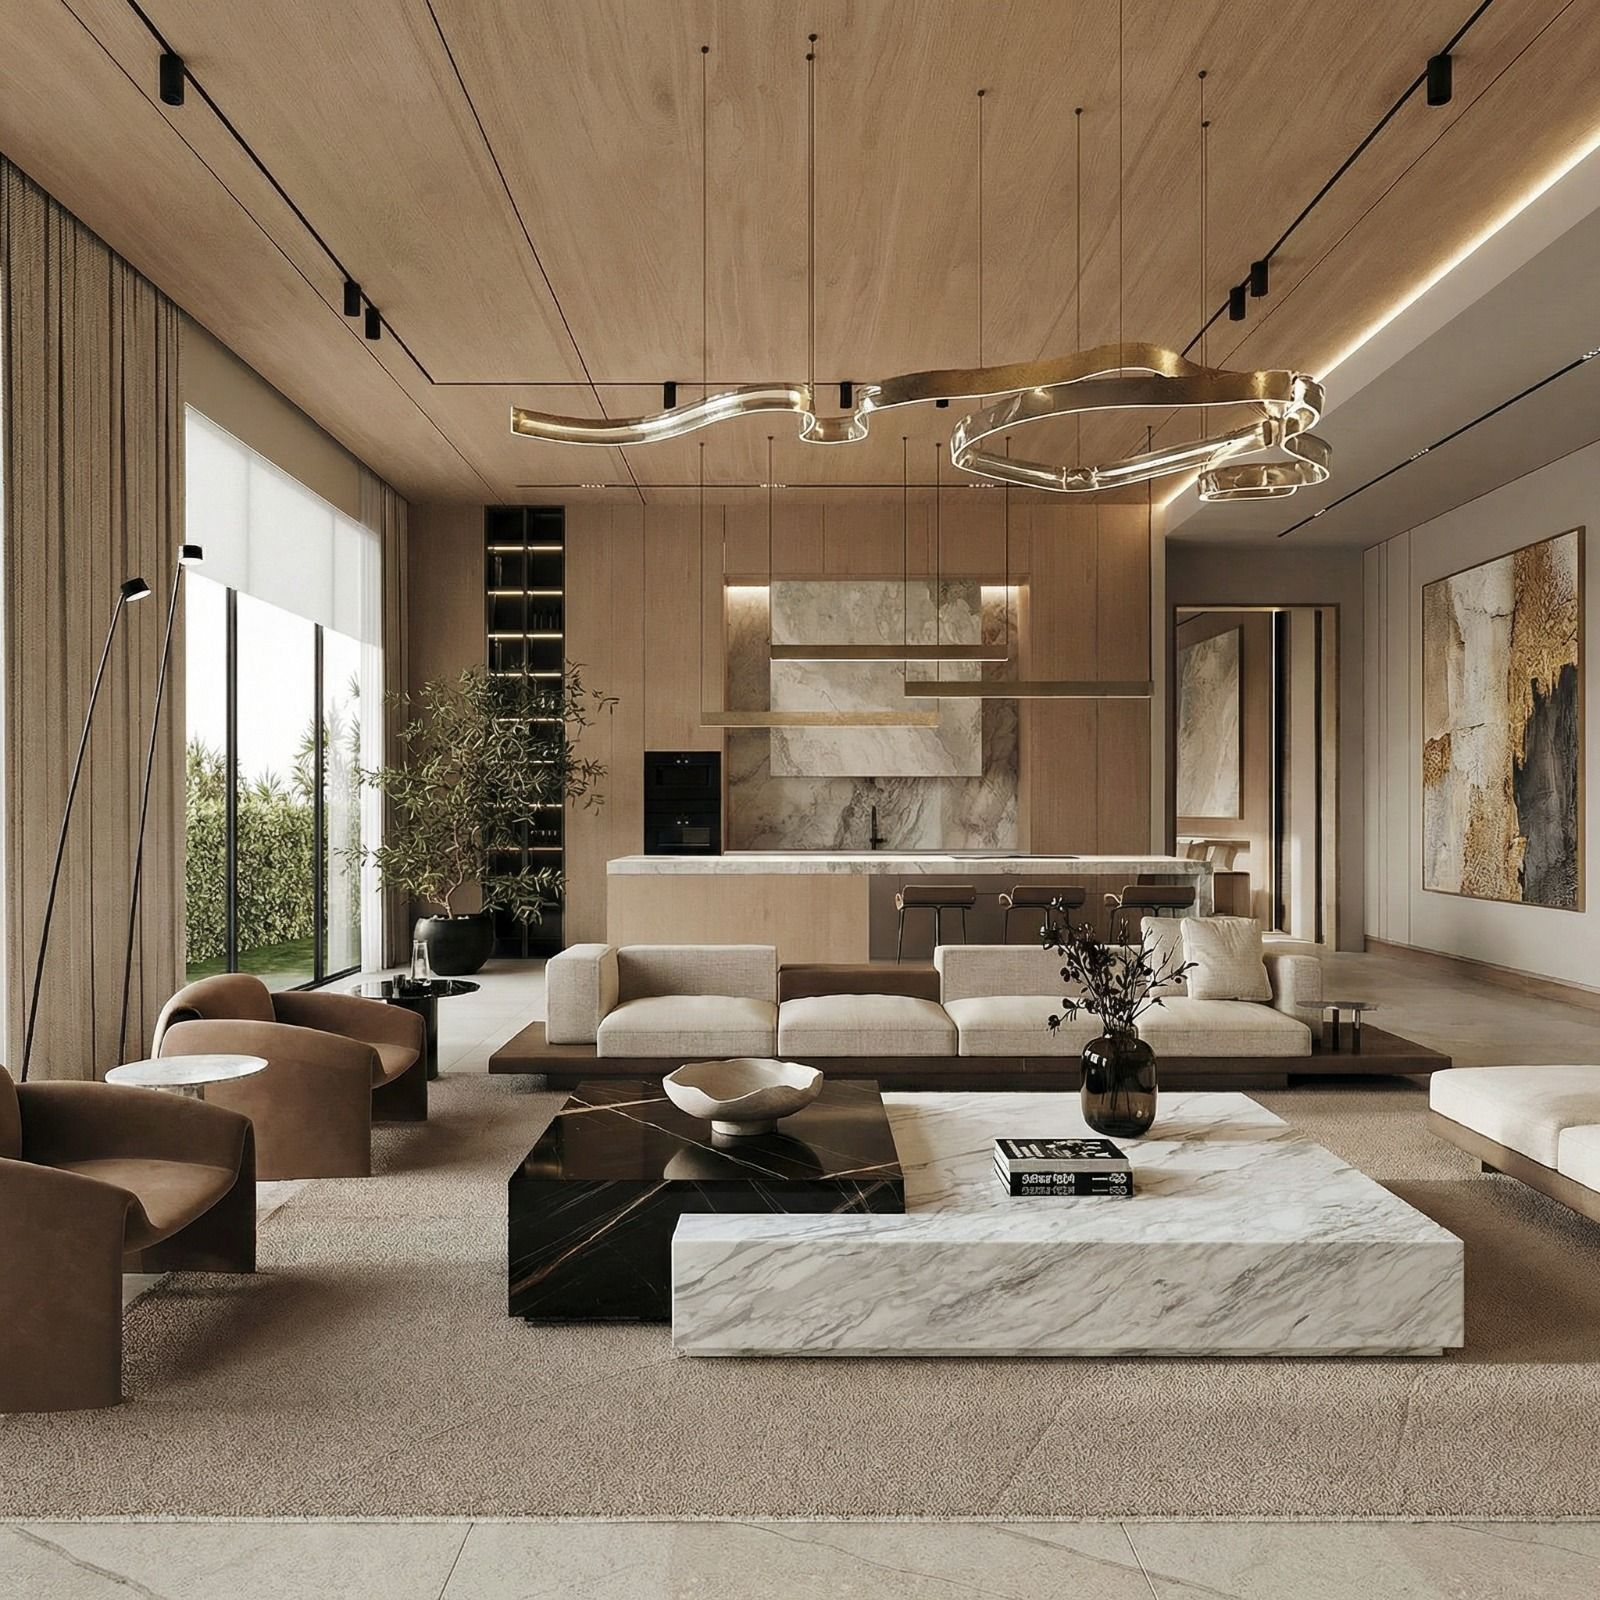
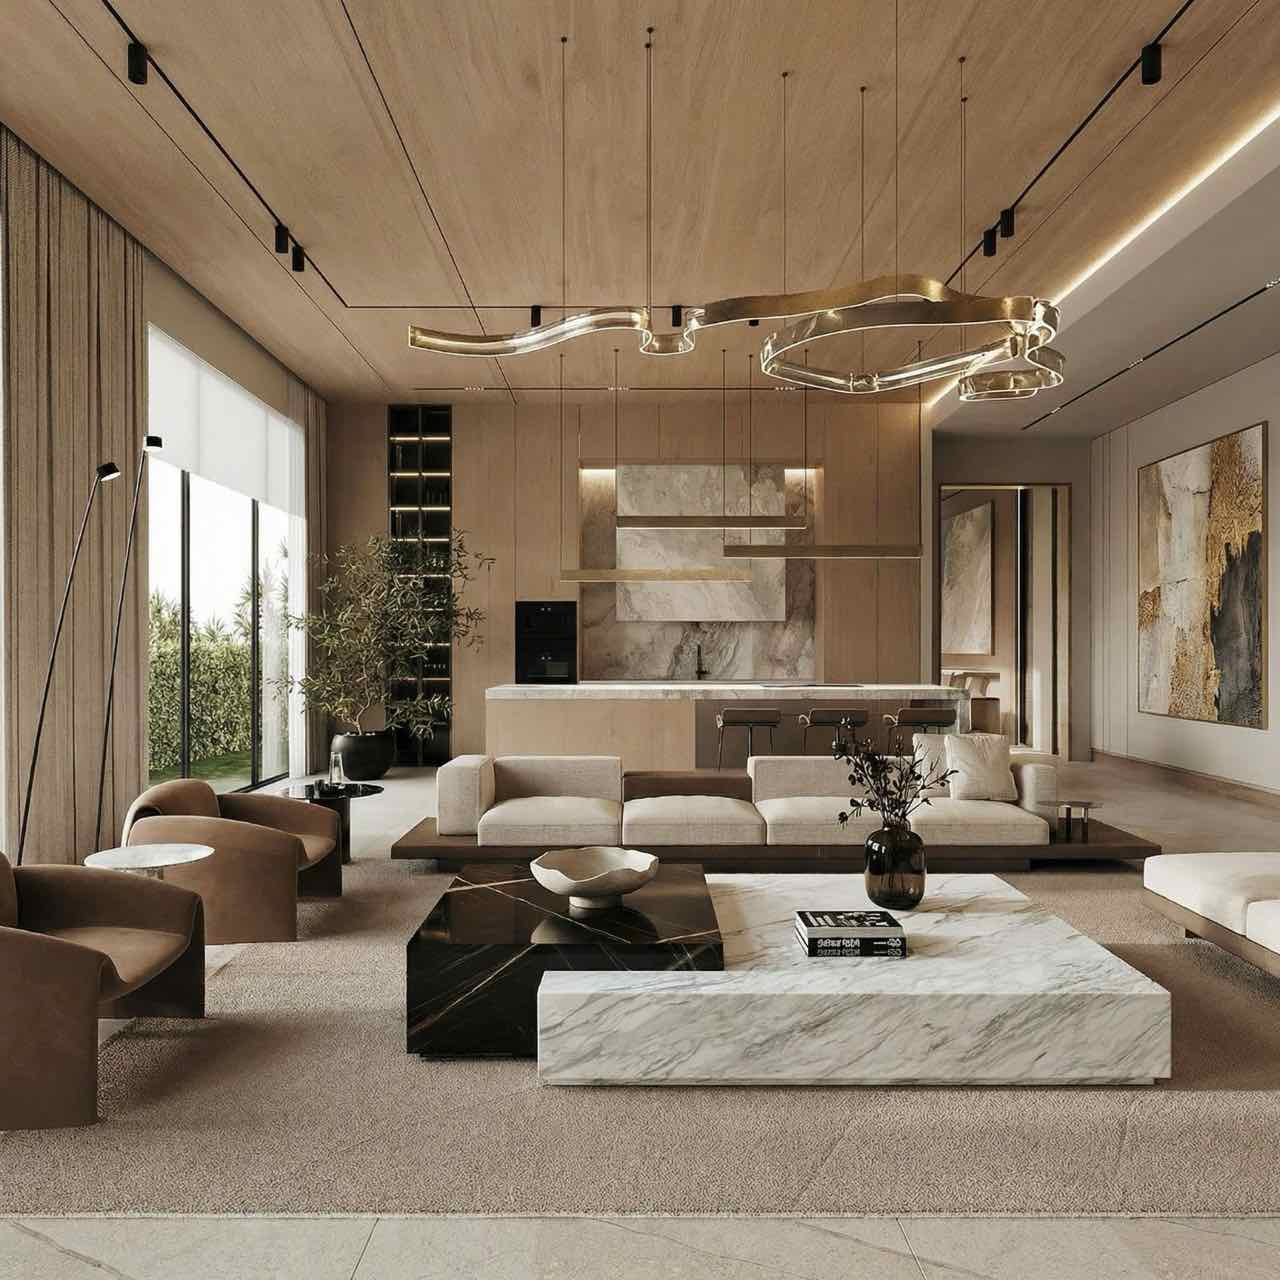
Update copyright to 2025-2026; compress hero image 444K->124K for faster load

Changed region(s): [[0.125, 0.5312, 0.1875, 0.5938], [0.6875, 0.5938, 0.7188, 0.6562]]

diff --git a/about.html b/about.html
@@ -289,7 +289,7 @@ nav{padding:1rem 1.5rem}.nav-links{display:none}
   <div class="footer-logo">Casa Nova Interiors</div>
   <div class="footer-tagline">Elevating Spaces. Enriching Lives.</div>
   <div class="footer-tagline" style="margin-top:0.6rem"><a href="mailto:[email redacted]" style="color:#c9a96e;text-decoration:none">[email redacted]</a></div>
-  <div class="footer-copy">© 2025 Casa Nova Global Sourcing Interiors · Karen, Nairobi, Kenya · All Rights Reserved</div>
+  <div class="footer-copy">© 2025–2026 Casa Nova Global Sourcing Interiors · Karen, Nairobi, Kenya · All Rights Reserved</div>
 </footer>
 
 <script>

diff --git a/faq.html b/faq.html
@@ -505,7 +505,7 @@ nav{padding:1rem 1.5rem}
 <footer>
   <div class="footer-logo">Casa Nova Interiors</div>
   <div class="footer-tagline">Elevating Spaces. Enriching Lives.</div>
-  <div class="footer-copy">© 2025 Casa Nova Global Sourcing Interiors · Karen, Nairobi, Kenya · All Rights Reserved</div>
+  <div class="footer-copy">© 2025–2026 Casa Nova Global Sourcing Interiors · Karen, Nairobi, Kenya · All Rights Reserved</div>
 </footer>
 
 <script>

diff --git a/founder.html b/founder.html
@@ -256,7 +256,7 @@ nav{padding:1.2rem 1.5rem}
   <div class="footer-logo">Casa Nova Interiors</div>
   <div class="footer-tagline">Elevating Spaces. Enriching Lives.</div>
   <div class="footer-tagline" style="margin-top:0.6rem"><a href="mailto:[email redacted]" style="color:#c9a96e;text-decoration:none">[email redacted]</a></div>
-  <div class="footer-copy">© 2025 Casa Nova Global Sourcing Interiors · Karen, Nairobi, Kenya · All Rights Reserved</div>
+  <div class="footer-copy">© 2025–2026 Casa Nova Global Sourcing Interiors · Karen, Nairobi, Kenya · All Rights Reserved</div>
 </footer>
 
 <script>

diff --git a/gallery.html b/gallery.html
@@ -163,7 +163,7 @@ footer{background:#040404;padding:3rem 2rem;border-top:1px solid rgba(201,169,11
   <div class="footer-logo">Casa Nova Interiors</div>
   <div class="footer-tag">Elevating Spaces. Enriching Lives.</div>
   <div class="footer-tag" style="margin-top:0.6rem"><a href="mailto:[email redacted]" style="color:#c9a96e;text-decoration:none">[email redacted]</a></div>
-  <div class="footer-copy">© 2025 Casa Nova Global Sourcing Interiors · Karen, Nairobi, Kenya</div>
+  <div class="footer-copy">© 2025–2026 Casa Nova Global Sourcing Interiors · Karen, Nairobi, Kenya</div>
 </footer>
 
 <script>

diff --git a/index.html b/index.html
@@ -770,7 +770,7 @@ a.contact-detail:hover .contact-detail-value{color:#c9a96e}
     </div>
   </div>
   <div class="footer-bottom">
-    <div class="footer-copy">© 2025 Casa Nova Global Sourcing Interiors · All Rights Reserved</div>
+    <div class="footer-copy">© 2025–2026 Casa Nova Global Sourcing Interiors · All Rights Reserved</div>
     <div class="footer-social">
       <a href="#">Instagram</a>
       <a href="#">Houzz</a>

diff --git a/mission.html b/mission.html
@@ -383,7 +383,7 @@ nav{padding:1.2rem 1.5rem}
   <div class="footer-logo">Casa Nova Interiors</div>
   <div class="footer-tagline">Elevating Spaces. Enriching Lives.</div>
   <div class="footer-tagline" style="margin-top:0.6rem"><a href="mailto:[email redacted]" style="color:#c9a96e;text-decoration:none">[email redacted]</a></div>
-  <div class="footer-copy">© 2025 Casa Nova Global Sourcing Interiors · Karen, Nairobi, Kenya · All Rights Reserved</div>
+  <div class="footer-copy">© 2025–2026 Casa Nova Global Sourcing Interiors · Karen, Nairobi, Kenya · All Rights Reserved</div>
 </footer>
 
 <script>

diff --git a/services.html b/services.html
@@ -409,7 +409,7 @@ nav{padding:1rem 1.5rem}
   <div class="footer-logo">Casa Nova Interiors</div>
   <div class="footer-tagline">Elevating Spaces. Enriching Lives.</div>
   <div class="footer-tagline" style="margin-top:0.6rem"><a href="mailto:[email redacted]" style="color:#c9a96e;text-decoration:none">[email redacted]</a></div>
-  <div class="footer-copy">© 2025 Casa Nova Global Sourcing Interiors · Karen, Nairobi, Kenya · All Rights Reserved</div>
+  <div class="footer-copy">© 2025–2026 Casa Nova Global Sourcing Interiors · Karen, Nairobi, Kenya · All Rights Reserved</div>
 </footer>
 
 <script>